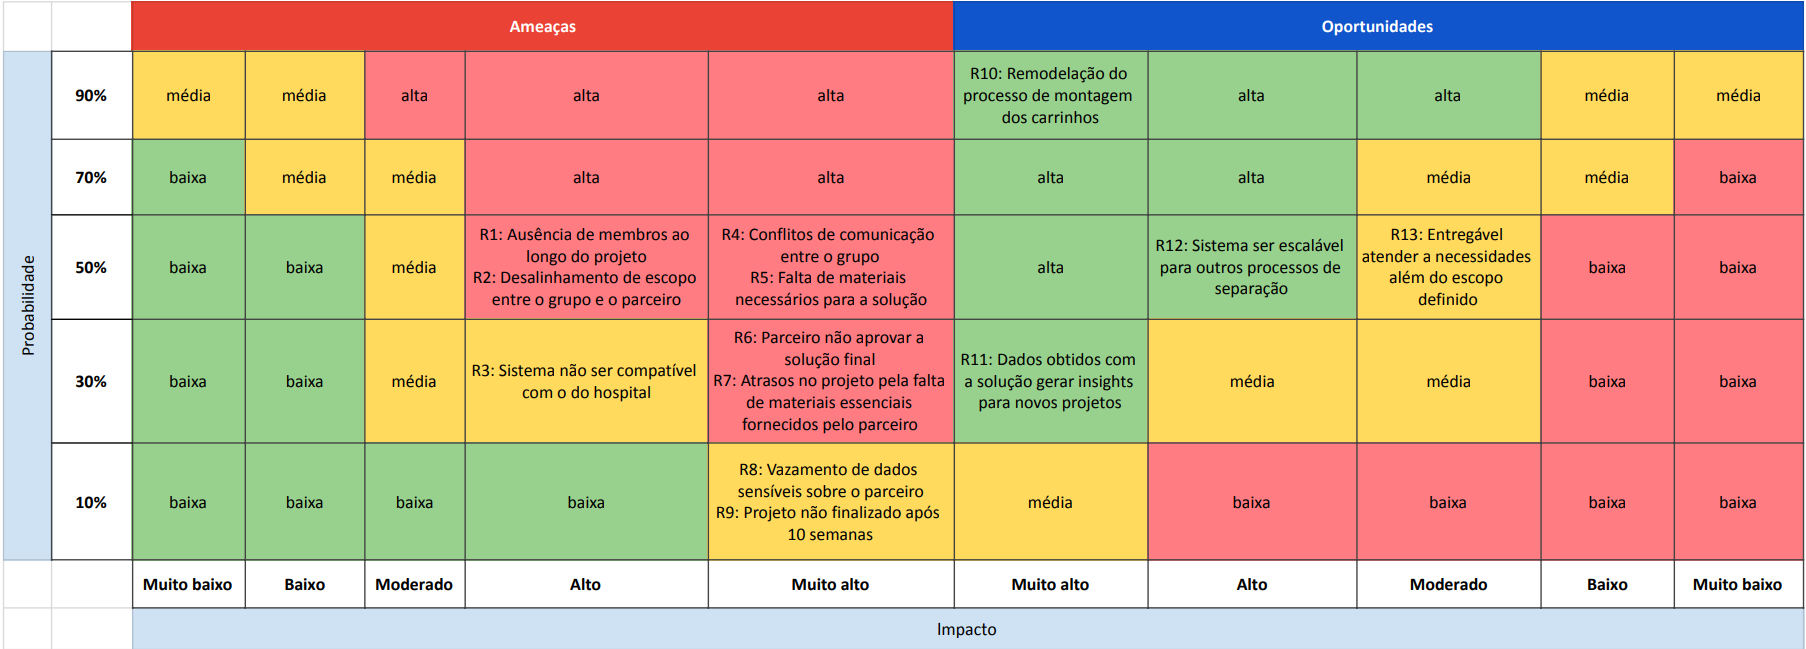
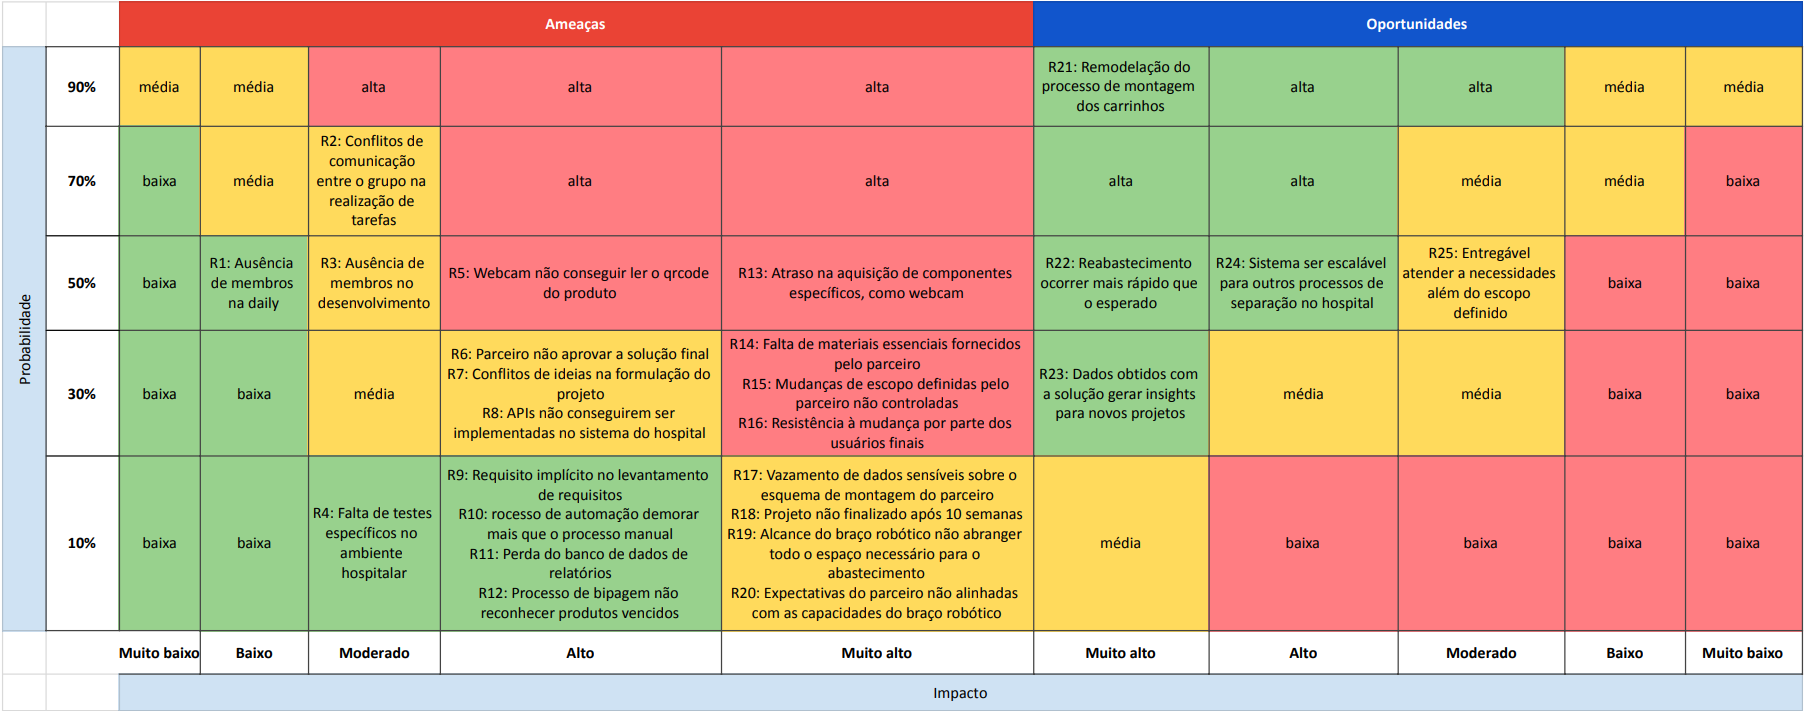
remodelação da matriz de risco

diff --git a/docs/docs/Sprint 1/entendimento_negocio.md b/docs/docs/Sprint 1/entendimento_negocio.md
@@ -11,36 +11,48 @@ Aba dos documentos de **Negócios**
 ## Matriz Oceano Azul
 ## Matriz de Risco
 
-&nbsp;&nbsp; Uma matriz de risco é uma ferramenta de gerenciamento de projetos amplamente utilizada para identificar, avaliar e priorizar os riscos potenciais que podem afetar o sucesso do projeto. Ela se torna relevante pois metrifica e categoriza os riscos e oportunidades numa matriz probabilidade x impacto, tornando assim mais tangível a mitigação dos riscos e o aproveitamento das oportunidades. No contexto do projeto para o Hospital Sírio-Libanês, a matriz de risco é crucial para antecipar e mitigar possíveis obstáculos que poderiam atrasar a conclusão do projeto ou comprometer sua eficácia. Além disso, ela ajuda a identificar oportunidades que podem ser aproveitadas para estender os benefícios do projeto além de seu escopo inicial.
+&nbsp;&nbsp; Uma matriz de risco é uma ferramenta de gerenciamento de projetos amplamente utilizada para identificar, avaliar e priorizar os riscos potenciais que podem afetar o sucesso do projeto. Ela se torna relevante pois metrifica e categoriza os riscos e oportunidades numa matriz probabilidade x impacto, tornando assim mais tangível a mitigação dos riscos e o aproveitamento das oportunidades. No contexto do projeto para o Hospital Sírio-Libanês, a matriz de risco é crucial para antecipar e mitigar possíveis obstáculos que poderiam atrasar a conclusão do projeto ou comprometer sua eficácia e, considerando que envolve a saúde dos pacientes, é vital antecipar esses riscos. Além disso, ela ajuda a identificar oportunidades que podem ser aproveitadas para estender os benefícios do projeto além de seu escopo inicial.
 
 &nbsp;&nbsp;Tendo isso em mente, segue uma lista com os principais riscos e oportunidades levantados pela equipe e como elas se enquadram na matriz.
 
 ### Riscos
 
-1. **Ausência de membros ao longo do projeto:** A ausência de um membro do grupo, como em casos de doenças ou atrasos, pode impactar no andamento das atividades do projeto e comprometer a qualidade das entregas;
-2. **Desalinhamento de escopo entre o grupo e o parceiro:** A diferença de expectativas entre a entrega e o que é esperado pelo parceiro pode gerar reajustes significativos ao longo das sprints, de modo que o retrabalho impacta no desempenho do projeto e na entrega final;
-3. **Sistema não ser compatível com o do hospital:** A incompatibilidade do sistema desenvolvido com as infraestruturas existentes no hospital pode demandar retrabalho e causar atrasos na implementação. Tendo em vista que o escopo não abrange sistemas de login e compatibilidade com a plataforma desenvolvida, é esperado que esse risco tenha menor probabilidade do que geralmente ocorre em outros projetos;
-4. **Conflitos de comunicação entre o grupo:** Dificuldades de comunicação interna podem levar a mal-entendidos, atrasos e conflitos, impactando negativamente o andamento do projeto. Espera-se que esse risco seja mitigado com as dailys a utilização da comunicação não agressiva durante o desenvolvimento;
-5. **Falta de materiais necessários para a solução:**  A escassez de materiais específicos requisitados ao longo do projeto e que não estavam previstos nos materiais iniciais pode comprometer o desenvolvimento da funcionalidade com o material em questão ou das funcionalidades que dependem desse material, acarretando em atrasos no projeto;
+1. **Ausência de membros na daily**: A ausência de um membro na daily impacta sobre o conhecimento do membro em relação ao andamento das atividades do grupo, bem como dificulta na comunicação em caso de possíveis atrasos de atividade do membro ausente ou tarefas de outros membros dependentes dessa tarefa não cumprida. Portanto, para reduzir esse dano, é necessário que o membro ausente adicione sua daily no Slack; 
+2. **Conflitos de comunicação entre o grupo na realização de tarefas:** O desentendimento dos membros em relação a tarefas atrasadas ou em casos de tarefas mal executadas pode gerar conflitos e retrabalhos que afetam o desempenho e a convivência da equipe;
+3. **Ausência de membros no desenvolvimento:** A ausência de contribuição dos membros durante o período de desenvolvimento pode afetar o ritmo de entrega do grupo, bem como sobrecarregar os membros que se responsabilizarão pela ausência;
+4. **Falta de testes específicos no ambiente hospitalar:** É possível que a falta de testes específicos que não podem ser simulados em ambiente de desenvolvimento, como a disposição dos produtos após o uso do carrinho pelos profissionais, possa afetar o desempenho da solução quando aplicada em contextos reais. Sendo assim, caso seja necessário, deve-se requisitar um teste em ambiente de uso para o parceiro;
+5. **Webcam não conseguir ler o qrcode do produto:** Apesar de poder funcionar nos testes, é possível que a disposição do produto tenha a visibilidade do qrcode dificultada e o sensor não leia. Portanto, é preciso implementar mecanismos que lidem com esses possíveis casos, como o acionamento de alarmes ou notificações;
 6. **Parceiro não aprovar a solução final:** Apesar de haver validações ao final de cada sprint, é possível que os ajustes realizados na sprint 5 não estejam de acordo com as expectativas do parceiro e, por se tratar da entrega final, impossibilita de futuras alterações pela equipe. Apesar desse risco existir, é esperado que a sprint 5 seja somente para refinamento dos critérios já levantados pelo parceiro na sprint anterior;
-7. **Atrasos no projeto pela falta de materiais essenciais fornecidos pelo parceiro:** Em casos que o projeto necessita de materiais específicos do parceiro, como fonte de dados ou funcionamento de sistemas, a entrega desse material além do prazo esperado pode impactar no andamento do projeto e até mesmo ocasionar em algumas funcionalidades não entregues ou com pendências;
-8. **Vazamento de dados sensíveis sobre o parceiro:** A exposição de informações confidenciais do parceiro pode prejudicar a relação comercial e causar danos à reputação das partes envolvidas;
-9. **Projeto não finalizado após 10 semanas:** Esse risco se deriva de diversos riscos envolvendo o andamento e o retrabalho da entrega ao longo do projeto, tendo em vista que esses impecilhos podem impactar na entrega final.
+7. **Conflitos de ideias na formulação do projeto:** Durante o levantamento de ideias, há a possibilidade de conflitos de opiniões que afetem nas decisões do grupo, além do andamento do projeto. Nesses casos, espera-se o uso da comunicação não violenta para resolver esse problema e prosseguir com o desenvolvimento;
+8. **APIs não conseguirem ser implementadas no sistema do hospital:** A incompatibilidade do sistema desenvolvido com as infraestruturas existentes no hospital pode demandar retrabalho e causar atrasos na implementação. Tendo em vista que o escopo não abrange sistemas de login e compatibilidade com a plataforma desenvolvida, é esperado que esse risco tenha menor probabilidade do que geralmente ocorre em outros projetos;
+9. **Requisito implícito no levantamento de requisitos:** É possível que algum requisito necessário não tenha sido adicionado à lista de requisitos e, ao avaliar nos testes, não haja uma boa implementação pela falta de métricas de avaliação;
+10. **Processo de automação demorar mais que o processo manual:** Apesar da expectativa da implementação de uma automação seja a redução no tempo de execução, é possível que a adição de verificações e comportamentos do sistema em casos de erro na leitura do qrcode, por exemplo, aumente seu tempo de execução a ponto de ser superior ao processo manual. Nesse caso, a equipe deve reavaliar o desempenho de cada etapa de verificação e melhorar a etapa que impacta mais na velocidade do processo;
+11. **Perda do banco de dados de relatórios:** Esse risco pode impactar tanto no processo de desenvolvimento com a falta da listagem de produtos a serem bipados como afetar na execução dos testes.
+12. **Processo de bipagem não reconhecer produtos vencidos:** Esse risco tem um alto impacto devido às consequências de uma falsa validação, haja vista que se tratam de ferramentas e medicamentos que afetam a vida do paciente, logo, podem gerar sérios danos. Para não ocorrer esse risco, são necessários vários testes com várias casos e condições adversas, para garantir a confiabilidade do processo;
+13. **Atraso na aquisição de componentes específicos, como webcam:** A escassez de materiais específicos requisitados ao longo do projeto e que não estavam previstos nos materiais iniciais pode comprometer o desenvolvimento da funcionalidade com o material em questão ou das funcionalidades que dependem desse material, acarretando em atrasos no projeto;
+14. **Falta de materiais essenciais fornecidos pelo parceiro:** Em casos que o projeto necessita de materiais específicos do parceiro, como fonte de dados ou funcionamento de sistemas, a entrega desse material além do prazo esperado pode impactar no andamento do projeto e até mesmo ocasionar em algumas funcionalidades não entregues ou com pendências;
+15. **Mudanças de escopo definidas pelo parceiro não controladas:** Podem acontecer mudanças de necessidades do projeto por mudanças internas do parceiro ou regulamentações não esperadas. Portanto, é importante pensar nesse risco e antecipar para que o planejamento do grupo seja flexível para esses casos e haja uma reavaliação do entregável final;
+16. **Resistência à mudança por parte dos usuários finais:** A solução automatizada pode trazer resistência aos profissionais que a utilizarão devido à adoção de novos procedimentos, mudanças na rotina, lidar com situações de erro e manutenção do sistema, entre outros obstáculos para a plena utilização da solução;
+17. **Vazamento de dados sensíveis sobre o esquema de montagem do parceiro:** A exposição de informações confidenciais do parceiro pode prejudicar sua relação com o Inteli causar danos à reputação das partes envolvidas;
+18. **Projeto não finalizado após 10 semanas:** Esse risco se deriva de diversos riscos envolvendo o andamento e o retrabalho da entrega ao longo do projeto, tendo em vista que esses empecilhos podem impactar na entrega final;
+19. **Alcance do braço robótico não abranger todo o espaço necessário para o abastecimento:** Há casos em que a quantidade de itens dispostos para organização do carrinho seja além para o espaço de alcance do braço robótico. É possível reduzir esse risco com testes e simulações mais próximas da realidade, além do acordo com o parceiro sobre o tamanho e a quantidade dos itens;
+20. **Expectativas do parceiro não alinhadas com as capacidades do braço robótico:** A expectativa de algumas funcionalidades pelo parceiro podem não ser atingidas pela capacidade do braço robótico utilizado, um risco que pode ser descoberto somente após a implementação e durante a fase de testes. Nesse caso, cabe à equipe informar ao parceiro e reavaliar uma adaptação da funcionalidade para as capacidades físicas e mecânicas da prova de conceito.
 
 ### Oportunidades
 
-10. **Remodelação do processo de montagem dos carrinhos:** Sabendo que o projeto abrange somente o braço robótico para o abastecimento dos carrinhos, há a possibilidade do hospital redesenhar a cadeia de montagem e manutenção dos carrinhos de emergência, haja vista a implementação de uma etapa diferente no processo. Essa oportunidade se mostra com alta possibilidade de ocorrência, uma vez que o braço robótico exige novas verificações no processo, como conferência do qrCode, como lidar com produtos vencidos, possíveis falhas da automação, entre outros.
-11. **Dados obtidos com a solução gerar insights para novos projetos:** Os dados coletados durante a operação do sistema podem fornecer insights valiosos para o desenvolvimento de novas soluções de automação não só para o processo em si da montagem de carrinhos, mas também para outros processos dentro do hospital. Essa oportunidade trará muitos benefícios valiosos para os processos na área da saúde e de logística no geral.
-12. **Sistema ser escalável para outros processos de separação:** A possibilidade de expandir o uso do sistema desenvolvido para outras atividades de separação pode abrir novos mercados e oportunidades de negócio não só para o parceiro, mas também para futuros projetos com o Inteli;
-13. **Entregável atender a necessidades além do escopo do projeto:** A entrega de soluções que excedem as expectativas do cliente pode resultar em reconhecimento e possíveis projetos futuros para o Inteli.
+21. **Remodelação do processo de montagem dos carrinhos:** Sabendo que o projeto abrange somente o braço robótico para o abastecimento dos carrinhos, há a possibilidade do hospital redesenhar a cadeia de montagem e manutenção dos carrinhos de emergência, haja vista a implementação de uma etapa diferente no processo. Essa oportunidade se mostra com alta possibilidade de ocorrência, uma vez que o braço robótico exige novas verificações no processo, como conferência do qrCode, como lidar com produtos vencidos, possíveis falhas da automação, entre outros;
+22. **Reabastecimento ocorrer mais rápido que o esperado:** Uma grande oportunidade seria a superação da expectativa da equipe quanto ao desempenho e velocidade de execução da solução, o que contribuiria mais ainda para o hospital como um todo;
+23. **Dados obtidos com a solução gerar insights para novos projetos:** Os dados coletados durante a operação do sistema podem fornecer insights valiosos para o desenvolvimento de novas soluções de automação não só para o processo em si da montagem de carrinhos, mas também para outros processos dentro do hospital. Essa oportunidade trará muitos benefícios valiosos para os processos na área da saúde e de logística no geral;
+24. **Sistema ser escalável para outros processos de separação:** A possibilidade de expandir o uso do sistema desenvolvido para outras atividades de separação pode abrir novos mercados e oportunidades de negócio não só para o parceiro, mas também para futuros projetos com o Inteli;
+25. **Entregável atender a necessidades além do escopo do projeto:** A entrega de soluções que excedem as expectativas do cliente pode resultar em reconhecimento e possíveis projetos futuros para o Inteli.
 
 &nbsp;&nbsp;Tendo os riscos e as oportunidades mapeados, foram avaliadas suas possíveis ocorrências e quais os impactos gerados, a fim de se preparar para cada risco que possa acontecer. Segue a imagem da matriz:
 
 #### Imagem 1 - Matriz de risco
 <img src="../../static/img/matriz_de_risco_G2.png" alt="Descrição da imagem">
-Fonte: autoria própria.
+Fonte: <a href='https://docs.google.com/spreadsheets/d/1AOd8tvEviWtPYGU7tg4_KYf8s9u_XR6VpP41e34wfy8/edit?usp=sharing'>autoria própria</a>.
 
-Portanto, a partir dos riscos mapeados e elencados, espera-se que a equipe consiga prevenir e antecipar comportamentos para mitigar os riscos e garantir o sucesso do projeto.
+&nbsp;&nbsp;Portanto, a partir dos riscos mapeados e elencados, espera-se que a equipe consiga prevenir e antecipar comportamentos para mitigar os riscos e garantir o sucesso do projeto.
 
 ## Canvas Proposta de Valor
 ## Análise financeira do projeto
